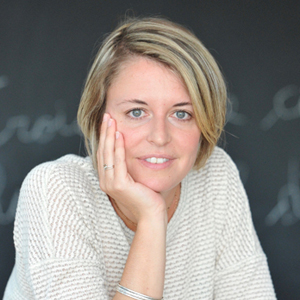
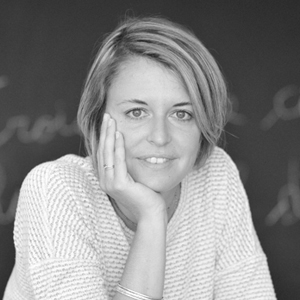
change text for melanie and add margin to content + black and white picture

Changed region(s): [[0.27, 0.15, 0.75, 1.0]]

diff --git a/index.html b/index.html
@@ -127,30 +127,22 @@
         <div class="team" id="mela">
             <div class="description content-mela">
                 <p>
-                    La lutte contre le tabac constitue un vrai parcours du combattant.
-                    De nombreuses personnes désirent
-                    arrêter de fumer mais n'y arrivent pas à cause notamment de leur
-                    dépendance à la nicotine,
-                    d’habitudes tabagiques profondément ancrées, et beaucoup s'accrochent
-                    avec plaisir à la cigarette
-                    pensant qu'elle apaise le stress et atténue les problèmes.
+                    La lutte contre le tabac constitue actuellement un vrai parcours du combattant.
+                    Nombreuses personnes désirent arrêter de fumer mais n'y parviennent pas à cause
+                    de leur dépendance à la nicotine, d’habitudes tabagiques profondément ancrées,
+                    et beaucoup s'accrochent avec plaisir à la cigarette pensant qu'elle apaise
+                    le stress et atténue les problèmes.
                 </p>
                 <p>
-                    Cependant, on sait tous les dangers que génère le tabagisme ainsi que
-                    les conséquences nocives
-                    qu'il entraîne. Voilà pourquoi, quand une personne décide d'arrêter,
-                    il convient de la soutenir au
+                    On sait tous les dangers que génère le tabagisme ainsi que les
+                    conséquences nocives qu'il entraîne.
+                    <br />
+                    Voilà pourquoi, quand une personne décide d'arrêter, il convient de la soutenir au
                     maximum pour qu'elle arrive au bout de sa lutte.
                 </p>
                <p>
-                   En tant que tabacologue, mon rôle est de vous accompagner tout au long
-                   de votre démarche d’arrêt du tabac.
-                   Etant formée à l’hypnose, je peux également vous proposer un sevrage
-                   tabagique en 5 séances.
-                   Je vous reçois à l’espace Oro Denta tous les lundis et vendredis
-                   après-midi dès 13h30.
-                   Bon à savoir : la mutuelle prévoit un remboursement pour
-                   8 consultations sur une période de 2 ans.
+                   En tant que tabacologue, mon rôle est de vous accompagner tout au
+                   long de votre démarche d’arrêt du tabac.
                </p>
             </div>
             <div class="align-col">

diff --git a/styles.scss b/styles.scss
@@ -399,21 +399,13 @@ input {
         .content-julie {
         }
 
-        .content-mela {
-            margin-right: 20px;
-            display: flex;
-            flex-direction: column;
 
-            .left-col {
-                margin-right: 20px;
-                width: 50%;
-            }
+    }
 
-            .right-col {
-                width: 50%;
-            }
-        }
-
+    .content-mela {
+        margin-right: 30px;
+        display: flex;
+        flex-direction: column;
     }
 
     .align-col {

diff --git a/styles.css b/styles.css
@@ -331,17 +331,10 @@ input {
 .team .description .ic-title .ic img {
   width: 150px;
 }
-.team .description .content-mela {
-  margin-right: 20px;
+.team .content-mela {
+  margin-right: 30px;
   display: flex;
   flex-direction: column;
-}
-.team .description .content-mela .left-col {
-  margin-right: 20px;
-  width: 50%;
-}
-.team .description .content-mela .right-col {
-  width: 50%;
 }
 .team .align-col {
   display: flex;
